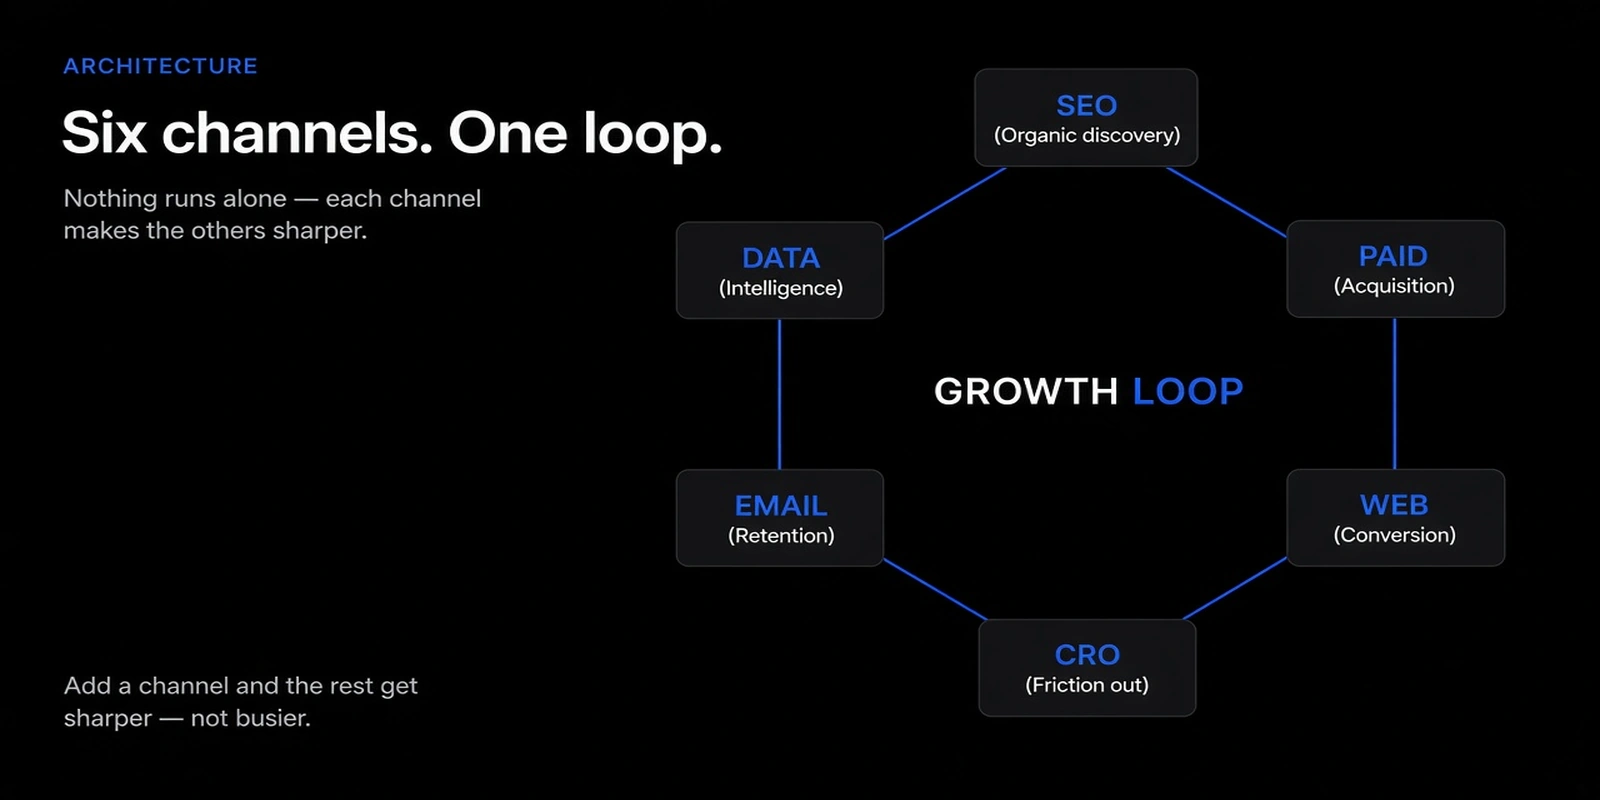
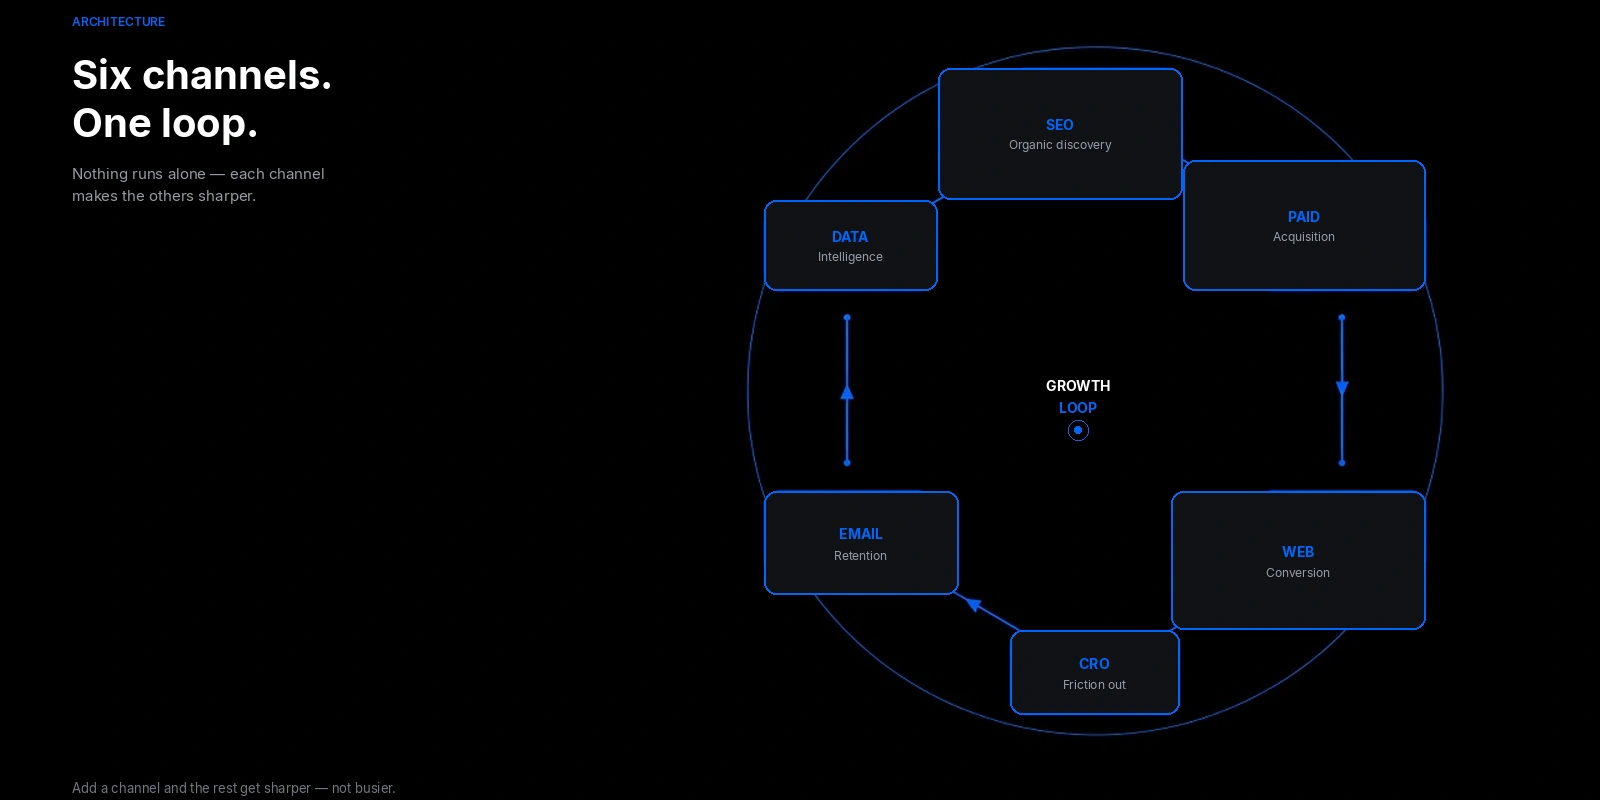
Refine About model plates: centered labels, higher craft.
Rebuild old-vs-KINEXIS and architecture plates on premium black/#0066ff
bases with optically centered circle/node typography, fuller left-card
labels, and cleaner growth-loop hierarchy.

diff --git a/src/app/[locale]/about/page.tsx b/src/app/[locale]/about/page.tsx
@@ -132,7 +132,7 @@ export default async function AboutPage({ params }: Props) {
             className="about-why__still"
           >
             <Image
-              src="/assets/images/agency/about-system.webp?v=20260930c"
+              src="/assets/images/agency/about-system.webp?v=20260930d"
               alt="Diagram comparing scattered marketing tactics to the connected KINEXIS growth system"
               width={1600}
               height={800}

diff --git a/scripts/build-about-plates.py b/scripts/build-about-plates.py
@@ -1,0 +1,272 @@
+#!/usr/bin/env python3
+"""Premium About plates: AI craft base + optically centered Inter typography."""
+
+from __future__ import annotations
+
+import math
+from pathlib import Path
+
+import numpy as np
+from PIL import Image, ImageDraw, ImageFont
+
+ROOT = Path("/workspace")
+FONT_DIR = Path("/usr/share/fonts/truetype/macos")
+BLUE = (0, 102, 255)
+WHITE = (255, 255, 255)
+MUTE = (150, 155, 165)
+MUTE2 = (112, 118, 128)
+FILL = (16, 18, 22)
+
+
+def font(weight: str, size: int) -> ImageFont.FreeTypeFont:
+    files = {
+        "reg": "Inter-Regular.ttf",
+        "med": "Inter-Medium.ttf",
+        "semi": "Inter-SemiBold.ttf",
+        "bold": "Inter-Bold.ttf",
+    }
+    return ImageFont.truetype(str(FONT_DIR / files[weight]), size)
+
+
+def optical_text(draw, cx, cy, text, fnt, fill, *, nudge_x=0.0, nudge_y=1.4):
+    """Center by glyph ink bbox; nudge_y pulls caps optically into the circle."""
+    bb = fnt.getbbox(text)
+    x = cx - (bb[0] + bb[2]) / 2 + nudge_x
+    y = cy - (bb[1] + bb[3]) / 2 + nudge_y
+    draw.text((x, y), text, font=fnt, fill=fill)
+
+
+def fill_circle(draw, cx, cy, r, fill=FILL, outline=None, width=2):
+    box = [cx - r, cy - r, cx + r, cy + r]
+    draw.ellipse(box, fill=fill, outline=outline, width=width if outline else 0)
+
+
+def fill_rrect(draw, box, radius=12, fill=FILL, outline=None, width=2):
+    draw.rounded_rectangle(box, radius=radius, fill=fill, outline=outline, width=width if outline else 1)
+
+
+def crop_2x1(img: Image.Image) -> Image.Image:
+    """Center-crop 1600x900 → 1600x800."""
+    w, h = img.size
+    if h == 800:
+        return img
+    top = max(0, (h - 800) // 2)
+    return img.crop((0, top, w, top + 800))
+
+
+def compose_system() -> Image.Image:
+    base = (
+        Image.open("/opt/cursor/artifacts/assets/about-system-base-v3.jpg")
+        .convert("RGBA")
+        .resize((1600, 900), Image.Resampling.LANCZOS)
+    )
+    img = base.copy()
+    draw = ImageDraw.Draw(img)
+
+    # Calibrated from blob detection on 1600×900 base
+    hub = (1196, 440)
+    hub_w, hub_h = 168, 78
+    node_r = 44
+    nodes = [
+        ("SEO", 1200, 180),
+        ("PAID", 1413, 308),
+        ("WEB", 1413, 568),
+        ("CRO", 1192, 700),
+        ("EMAIL", 970, 568),
+        ("DATA", 978, 308),
+    ]
+
+    # Clear + redraw hub for clean stacked type
+    fill_rrect(
+        draw,
+        [hub[0] - hub_w / 2, hub[1] - hub_h / 2, hub[0] + hub_w / 2, hub[1] + hub_h / 2],
+        radius=14,
+        fill=FILL,
+        outline=BLUE,
+        width=2,
+    )
+    optical_text(draw, hub[0], hub[1] - 11, "KINEXIS", font("bold", 16), WHITE, nudge_y=1.1)
+    optical_text(draw, hub[0], hub[1] + 13, "SYSTEM", font("bold", 13), BLUE, nudge_y=1.1)
+
+    # Nodes: clear interior, single crisp ring, optically centered labels
+    fn = font("semi", 13)
+    fn_sm = font("semi", 11)
+    for lab, x, y in nodes:
+        fill_circle(draw, x, y, node_r, fill=FILL, outline=BLUE, width=2)
+        f = fn_sm if len(lab) >= 5 else fn
+        nx = 1.2 if len(lab) >= 5 else 0.6
+        optical_text(draw, x, y, lab, f, WHITE, nudge_x=nx, nudge_y=1.15)
+
+    # Headers / captions
+    draw.text((78, 48), "THE OLD MODEL", font=font("semi", 12), fill=MUTE)
+    draw.text((78, 74), "Tactics in pieces.", font=font("bold", 36), fill=WHITE)
+    draw.text((856, 48), "THE KINEXIS MODEL", font=font("semi", 12), fill=BLUE)
+    draw.text((856, 74), "One growth system.", font=font("bold", 36), fill=WHITE)
+
+    # Left card labels — positions from grid inspection of the blank base
+    left_labels = [
+        (110, 158, "Ads"),
+        (300, 148, "Blog"),
+        (500, 178, "Email"),
+        (210, 288, "Silos"),
+        (420, 330, "Website"),
+        (110, 418, "SEO"),
+        (340, 488, "Content"),
+        (500, 618, "Social"),
+    ]
+    fl = font("semi", 13)
+    for lx, ly, lab in left_labels:
+        draw.rounded_rectangle([lx - 4, ly - 4, lx + 78, ly + 22], radius=5, fill=(18, 20, 24))
+        draw.text((lx, ly), lab, font=fl, fill=WHITE)
+
+    # y≈830 → ~780 after center-crop to 800
+    draw.text(
+        (78, 830),
+        "Bought separately. Measured separately. Rarely connected.",
+        font=font("reg", 13),
+        fill=MUTE2,
+    )
+    draw.text(
+        (856, 830),
+        "Every channel feeds the next. Revenue is the filter.",
+        font=font("reg", 13),
+        fill=MUTE2,
+    )
+
+    out = crop_2x1(img).convert("RGB")
+
+    # Verify ink centroids after crop (nodes shift by -50 y)
+    dy = 50
+    check_nodes = [(lab, x, y - dy) for lab, x, y in nodes]
+    verify(out, check_nodes, node_r)
+    return out
+
+
+def compose_arch() -> Image.Image:
+    base = (
+        Image.open("/opt/cursor/artifacts/assets/about-arch-base-v3.jpg")
+        .convert("RGBA")
+        .resize((1600, 900), Image.Resampling.LANCZOS)
+    )
+    img = base.copy()
+    draw = ImageDraw.Draw(img)
+
+    # Calibrated blue-border comps on 1600×900, ordered clockwise from top
+    boxes = [
+        (938, 118, 1182, 249),   # SEO top
+        (1183, 210, 1425, 340),  # PAID
+        (1171, 541, 1425, 679),  # WEB
+        (1010, 680, 1179, 764),  # CRO
+        (764, 541, 958, 644),    # EMAIL
+        (764, 250, 937, 340),    # DATA
+    ]
+    labels = [
+        ("SEO", "Organic discovery"),
+        ("PAID", "Acquisition"),
+        ("WEB", "Conversion"),
+        ("CRO", "Friction out"),
+        ("EMAIL", "Retention"),
+        ("DATA", "Intelligence"),
+    ]
+
+    cx = sum((a + c) / 2 for a, b, c, d in boxes) / len(boxes)
+    cy = sum((b + d) / 2 for a, b, c, d in boxes) / len(boxes)
+
+    # Left copy
+    draw.text((72, 64), "ARCHITECTURE", font=font("semi", 12), fill=BLUE)
+    draw.text((72, 100), "Six channels.", font=font("bold", 40), fill=WHITE)
+    draw.text((72, 148), "One loop.", font=font("bold", 40), fill=WHITE)
+    draw.text((72, 214), "Nothing runs alone — each channel", font=font("reg", 15), fill=MUTE)
+    draw.text((72, 236), "makes the others sharper.", font=font("reg", 15), fill=MUTE)
+    draw.text(
+        (72, 830),
+        "Add a channel and the rest get sharper — not busier.",
+        font=font("reg", 13),
+        fill=MUTE2,
+    )
+
+    # Center wordmark — clear field, no overlapping glyph
+    fill_circle(draw, cx, cy, 56, fill=(0, 0, 0), outline=None)
+    optical_text(draw, cx, cy - 12, "GROWTH", font("bold", 14), WHITE, nudge_y=1.1)
+    optical_text(draw, cx, cy + 10, "LOOP", font("bold", 14), BLUE, nudge_y=1.1)
+    # small mark below type
+    draw.ellipse([cx - 3.5, cy + 30, cx + 3.5, cy + 37], fill=BLUE)
+    draw.ellipse([cx - 10, cy + 24, cx + 10, cy + 44], outline=BLUE, width=1)
+
+    fn = font("bold", 14)
+    fs = font("reg", 12)
+    for (x0, y0, x1, y1), (lab, sub) in zip(boxes, labels):
+        fill_rrect(draw, [x0, y0, x1, y1], radius=12, fill=FILL, outline=BLUE, width=2)
+        ncx, ncy = (x0 + x1) / 2, (y0 + y1) / 2
+        # Two-line stack optically centered as one unit (title + gap + sub)
+        optical_text(draw, ncx, ncy - 7, lab, fn, BLUE, nudge_y=1.1)
+        optical_text(draw, ncx, ncy + 14, sub, fs, MUTE, nudge_y=0.9)
+
+    return crop_2x1(img).convert("RGB")
+
+
+def verify(img: Image.Image, nodes, r: float) -> None:
+    arr = np.array(img)
+    print("circle label ink centroids (want ~0,0):")
+    for lab, cx, cy in nodes:
+        xs, ys = [], []
+        rr = r - 8
+        for y in range(int(cy - rr), int(cy + rr) + 1):
+            for x in range(int(cx - rr), int(cx + rr) + 1):
+                if (x - cx) ** 2 + (y - cy) ** 2 > rr * rr:
+                    continue
+                if not (0 <= y < arr.shape[0] and 0 <= x < arr.shape[1]):
+                    continue
+                p = arr[y, x]
+                if p[0] > 200 and p[1] > 200 and p[2] > 200:
+                    xs.append(x)
+                    ys.append(y)
+        if xs:
+            print(f"  {lab}: dx={np.mean(xs)-cx:+.2f} dy={np.mean(ys)-cy:+.2f}")
+        else:
+            print(f"  {lab}: no white ink found at ({cx:.0f},{cy:.0f})")
+
+
+def export(img: Image.Image, png: Path, webp: Path, sm: Path | None = None) -> None:
+    img.save(png, "PNG", optimize=True)
+    img.save(webp, "WEBP", quality=95, method=6)
+    if sm:
+        sm_img = img.resize((960, int(960 * img.height / img.width)), Image.Resampling.LANCZOS)
+        sm_img.save(sm, "WEBP", quality=92, method=6)
+    print(f"wrote {webp.name} {img.size} {webp.stat().st_size}b")
+
+
+def main():
+    system = compose_system()
+    arch = compose_arch()
+    export(
+        system,
+        ROOT / "public/assets/images/agency/about-system.png",
+        ROOT / "public/assets/images/agency/about-system.webp",
+        ROOT / "public/assets/images/agency/about-system-sm.webp",
+    )
+    export(
+        arch,
+        ROOT / "public/assets/images/editorial/about-architecture-plate.png",
+        ROOT / "public/assets/images/editorial/about-architecture-plate.webp",
+    )
+    Path("/tmp/about-plates").mkdir(parents=True, exist_ok=True)
+    system.save("/tmp/about-plates/system-preview.png")
+    arch.save("/tmp/about-plates/arch-preview.png")
+
+    # Node crops for visual QA (post-crop coords)
+    for lab, x, y in [
+        ("SEO", 1200, 130),
+        ("PAID", 1413, 258),
+        ("WEB", 1413, 518),
+        ("CRO", 1192, 650),
+        ("EMAIL", 970, 518),
+        ("DATA", 978, 258),
+    ]:
+        pad = 52
+        system.crop((x - pad, y - pad, x + pad, y + pad)).save(f"/tmp/about-plates/node-{lab}.png")
+    print("done")
+
+
+if __name__ == "__main__":
+    main()
